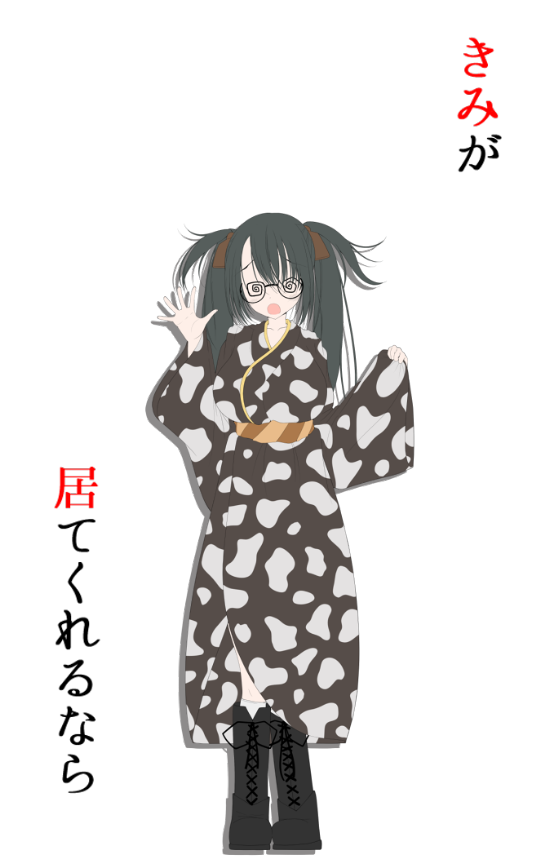
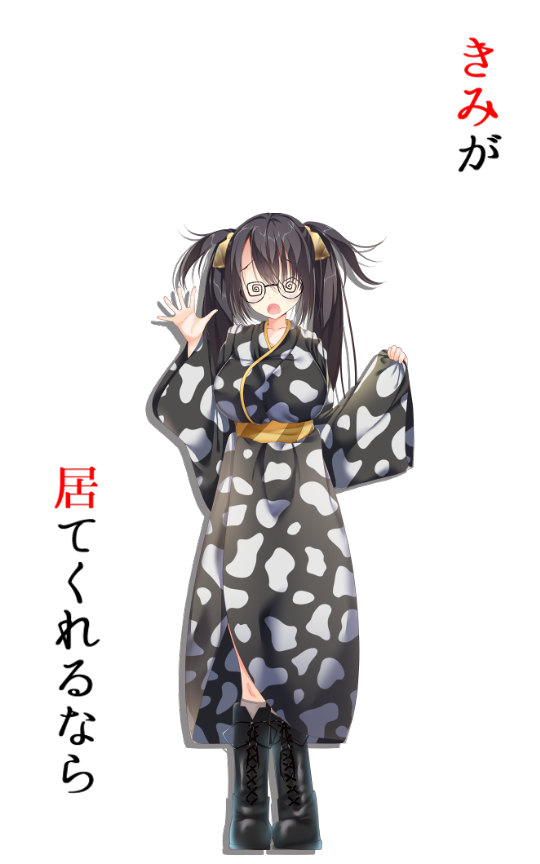
立ち絵更新

Changed region(s): [[0.2963, 0.25, 0.7704, 1.0], [0.2667, 0.4375, 0.3259, 0.5]]

diff --git a/pages/mayukara/character/standsmobile.jsx b/pages/mayukara/character/standsmobile.jsx
@@ -1,42 +1,47 @@
 import Image from 'next/image'
-import mamoru1 from "../../static/stands/HP1mmr1.png"
-import mamoru2 from "../../static/stands/HP1mmr2.png"
-import chiyo1 from "../../static/stands/HP2cy1.png"
-import chiyo2 from "../../static/stands/HP2cy2.png"
-import saika1 from "../../static/stands/HP3sik1.png"
-import saika2 from "../../static/stands/HP3sik2.png"
-import juri1 from "../../static/stands/HP4jr1.png"
-import juri2 from "../../static/stands/HP4jr2.png"
-import tsuyuri1 from "../../static/stands/HP5tyr1.png"
-import tsuyuri2 from "../../static/stands/HP5tyr2.png"
-import nazuna1 from "../../static/stands/HP6nzn1.png"
-import nazuna2 from "../../static/stands/HP6nzn2.png"
-import sousei1 from "../../static/stands/HP7susi1.png"
-import sousei2 from "../../static/stands/HP7susi2.png"
-import sitoras1 from "../../static/stands/HP8strs1.png"
-import sitoras2 from "../../static/stands/HP8strs2.png"
-import ryuko1 from "../../static/stands/HP9rk1.png"
-import ryuko2 from "../../static/stands/HP9rk2.png"
-import ryo1 from "../../static/stands/HP10ku1.png"
-import ryo2 from "../../static/stands/HP10ku2.png"
-import kenji1 from "../../static/stands/HP11knj1.png"
-import kenji2 from "../../static/stands/HP11knj2.png"
-import komari1 from "../../static/stands/HP12kmr1.png"
-import komari2 from "../../static/stands/HP12kmr2.png"
-import ushio1 from "../../static/stands/HP13uso1.png"
-import ushio2 from "../../static/stands/HP13uso2.png"
-import umino1 from "../../static/stands/HP14umn1.png"
-import umino2 from "../../static/stands/HP14umn2.png"
-import resuna1 from "../../static/stands/HP15rsn1.png"
-import resuna2 from "../../static/stands/HP15rsn2.png"
+import mamoru1 from "../../static/mobile/m1mmr1.png"
+import mamoru2 from "../../static/mobile/m1mmr2.png"
+import mamoru3 from "../../static/mobile/m1mmr3.png"
+import chiyo1 from "../../static/mobile/m2cy1.png"
+import chiyo2 from "../../static/mobile/m2cy2.png"
+import chiyo3 from "../../static/mobile/m2cy3.png"
+import saika1 from "../../static/mobile/m3sik1.png"
+import saika2 from "../../static/mobile/m3sik2.png"
+import saika3 from "../../static/mobile/m3sik3.png"
+import juri1 from "../../static/mobile/m4jr1.png"
+import juri2 from "../../static/mobile/m4jr2.png"
+import tsuyuri1 from "../../static/mobile/m5tyr1.png"
+import tsuyuri2 from "../../static/mobile/m5tyr2.png"
+import tsuyuri3 from "../../static/mobile/m5tyr3.png"
+import nazuna1 from "../../static/mobile/m6nzn1.png"
+import nazuna2 from "../../static/mobile/m6nzn2.png"
+import nazuna3 from "../../static/mobile/m6nzn3.png"
+import sousei1 from "../../static/mobile/m7susi1.png"
+import sousei2 from "../../static/mobile/m7susi2.png"
+import sitoras1 from "../../static/mobile/m8strs1.png"
+import sitoras2 from "../../static/mobile/m8strs2.png"
+import ryuko1 from "../../static/mobile/m9rk1.png"
+import ryuko2 from "../../static/mobile/m9rk2.png"
+import ryo1 from "../../static/mobile/m10ku1.png"
+import ryo2 from "../../static/mobile/m10ku2.png"
+import kenji1 from "../../static/mobile/m11knj1.png"
+import kenji2 from "../../static/mobile/m11knj2.png"
+import komari1 from "../../static/mobile/m12kmr1.png"
+import komari2 from "../../static/mobile/m12kmr2.png"
+import ushio1 from "../../static/mobile/m13uso1.png"
+import ushio2 from "../../static/mobile/m13uso2.png"
+import umino1 from "../../static/mobile/m14umn1.png"
+import umino2 from "../../static/mobile/m14umn2.png"
+import resuna1 from "../../static/mobile/m15rsn1.png"
+import resuna2 from "../../static/mobile/m15rsn2.png"
 
-export default function CharaStandsMobile(selected, value, width, height) {
+export default function CharaStandsMobile(selected, value) {
     const imgArea = (src) => {
         if (src) {
             return (
                 <Image
                     src={src}
-                    style={{ display: "inline-block" , width:"auto"}}
+                    style={{ display: "inline-block", width: "auto" }}
                     alt="Image" />
             )
         } return <></>
@@ -51,6 +56,9 @@ export default function CharaStandsMobile(selected, value, width, height) {
                     {value === "2" && (
                         imgArea(mamoru2)
                     )}
+                    {value === "3" && (
+                        imgArea(mamoru3)
+                    )}
                 </>
             )
         case "Chiyo":
@@ -62,6 +70,9 @@ export default function CharaStandsMobile(selected, value, width, height) {
                     {value === "2" && (
                         imgArea(chiyo2)
                     )}
+                    {value === "3" && (
+                        imgArea(chiyo3)
+                    )}
                 </>
             )
         case "Saika":
@@ -72,6 +83,9 @@ export default function CharaStandsMobile(selected, value, width, height) {
                     )}
                     {value === "2" && (
                         imgArea(saika2)
+                    )}
+                    {value === "3" && (
+                        imgArea(saika3)
                     )}
                 </>
             )
@@ -97,6 +111,9 @@ export default function CharaStandsMobile(selected, value, width, height) {
                     {value === "2" && (
                         imgArea(tsuyuri2)
                     )}
+                    {value === "3" && (
+                        imgArea(tsuyuri3)
+                    )}
                 </>
             )
         case "Nazuna":
@@ -108,6 +125,9 @@ export default function CharaStandsMobile(selected, value, width, height) {
                     )}
                     {value === "2" && (
                         imgArea(nazuna2)
+                    )}
+                    {value === "3" && (
+                        imgArea(nazuna3)
                     )}
                 </>
             )

diff --git a/pages/mayukara/character/stands.jsx b/pages/mayukara/character/stands.jsx
@@ -1,16 +1,21 @@
 import Image from 'next/image'
 import mamoru1 from "../../static/stands/S1mmr1.png"
 import mamoru2 from "../../static/stands/S1mmr2.png"
+import mamoru3 from "../../static/stands/S1mmr3.png"
 import chiyo1 from "../../static/stands/S2cy1.png"
 import chiyo2 from "../../static/stands/S2cy2.png"
+import chiyo3 from "../../static/stands/S2cy3.png"
 import saika1 from "../../static/stands/S3sik1.png"
 import saika2 from "../../static/stands/S3sik2.png"
+import saika3 from "../../static/stands/S3sik3.png"
 import juri1 from "../../static/stands/S4jr1.png"
 import juri2 from "../../static/stands/S4jr2.png"
 import tsuyuri1 from "../../static/stands/S5tyr1.png"
 import tsuyuri2 from "../../static/stands/S5tyr2.png"
+import tsuyuri3 from "../../static/stands/S5tyr3.png"
 import nazuna1 from "../../static/stands/S6nzn1.png"
 import nazuna2 from "../../static/stands/S6nzn2.png"
+import nazuna3 from "../../static/stands/S6nzn3.png"
 import sousei1 from "../../static/stands/S7susi1.png"
 import sousei2 from "../../static/stands/S7susi2.png"
 import sitoras1 from "../../static/stands/S8strs1.png"
@@ -51,6 +56,9 @@ export default function CharaStands(selected, value, width, height) {
                     {value === "2" && (
                         imgArea(mamoru2)
                     )}
+                    {value === "3" && (
+                        imgArea(mamoru3)
+                    )}
                 </>
             )
         case "Chiyo":
@@ -62,6 +70,9 @@ export default function CharaStands(selected, value, width, height) {
                     {value === "2" && (
                         imgArea(chiyo2)
                     )}
+                    {value === "3" && (
+                        imgArea(chiyo3)
+                    )}
                 </>
             )
         case "Saika":
@@ -72,6 +83,9 @@ export default function CharaStands(selected, value, width, height) {
                     )}
                     {value === "2" && (
                         imgArea(saika2)
+                    )}
+                    {value === "3" && (
+                        imgArea(saika3)
                     )}
                 </>
             )
@@ -97,6 +111,9 @@ export default function CharaStands(selected, value, width, height) {
                     {value === "2" && (
                         imgArea(tsuyuri2)
                     )}
+                    {value === "3" && (
+                        imgArea(tsuyuri3)
+                    )}
                 </>
             )
         case "Nazuna":
@@ -108,6 +125,9 @@ export default function CharaStands(selected, value, width, height) {
                     )}
                     {value === "2" && (
                         imgArea(nazuna2)
+                    )}
+                    {value === "3" && (
+                        imgArea(nazuna3)
                     )}
                 </>
             )

diff --git a/pages/mayukara/character/index.jsx b/pages/mayukara/character/index.jsx
@@ -44,7 +44,7 @@ const mamoru = {
     name_img: nameMamoru,
     selected_name: "Mamoru",
     icon: iconMamoru,
-    options: ['1', "2"]
+    options: ['1', "2", "3"]
 }
 const chiyo = {
     names: "砂羽村 千代",
@@ -52,7 +52,7 @@ const chiyo = {
     name_img: nameChiyo,
     selected_name: "Chiyo",
     icon: iconChiyo,
-    options: ['1', "2"]
+    options: ['1', "2", "3"]
 }
 const saika = {
     names: "砂羽村 才花",
@@ -60,7 +60,7 @@ const saika = {
     name_img: nameSaika,
     selected_name: "Saika",
     icon: iconSaika,
-    options: ['1', "2"]
+    options: ['1', "2", "3"]
 }
 const juri = {
     names: "砂羽村 樹里",
@@ -76,7 +76,7 @@ const tsuyuri = {
     name_img: nameTsuyuri,
     selected_name: "Tsuyuri",
     icon: iconTsuyuri,
-    options: ['1', "2"]
+    options: ['1', "2", "3"]
 }
 const nazuna = {
     names: "淡嶋 なずな",
@@ -84,7 +84,7 @@ const nazuna = {
     name_img: nameNazuna,
     selected_name: "Nazuna",
     icon: iconNazuna,
-    options: ['1', "2"]
+    options: ['1', "2", "3"]
 }
 const sousei = {
     names: "梅園 聡晟",
@@ -383,7 +383,7 @@ export default function MayuChara({ width }) {
                                         lineHeight: "24px"
                                     }}>{CharaTxt(charaValue?.selected_name) ?? ""}
                                     </div>
-                                    <div style={{ textAlign: "center" }}>
+                                    <div style={{ textAlign: "center", margin: "1rem" }}>
                                         <Segmented options={charaValue?.options ?? ["1"]} value={value} onChange={setValue} size={"middle"} />
                                     </div>
                                 </div>
